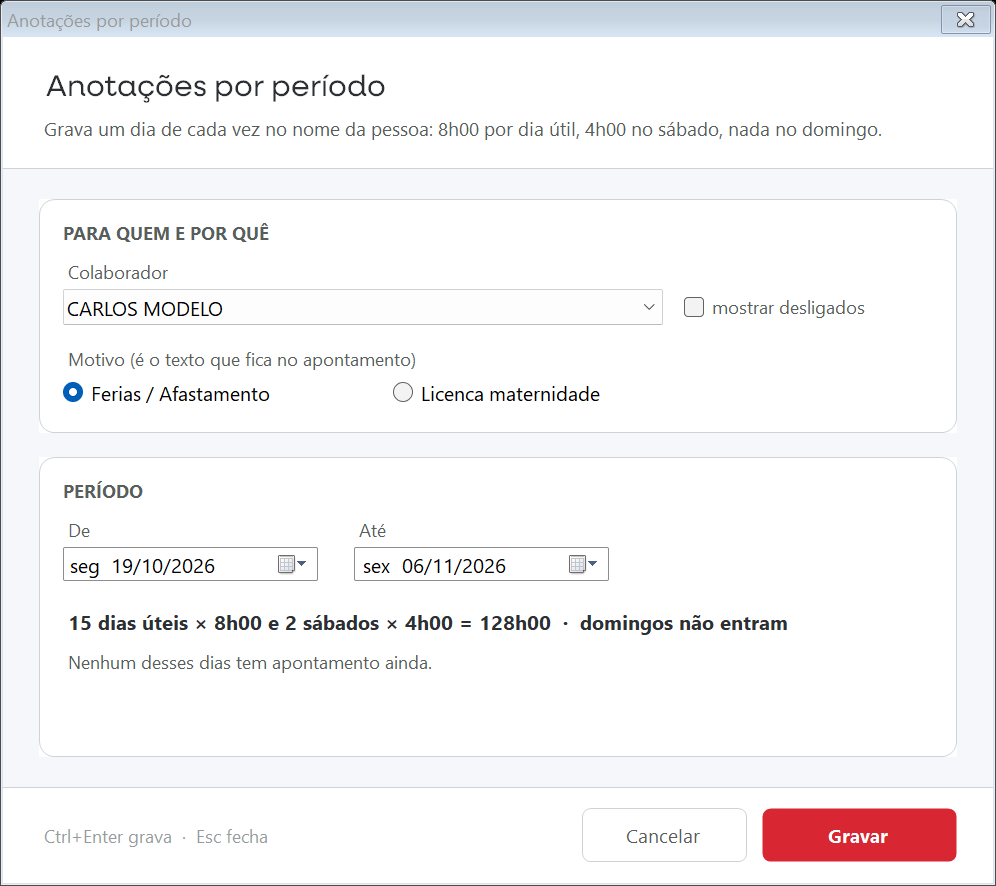
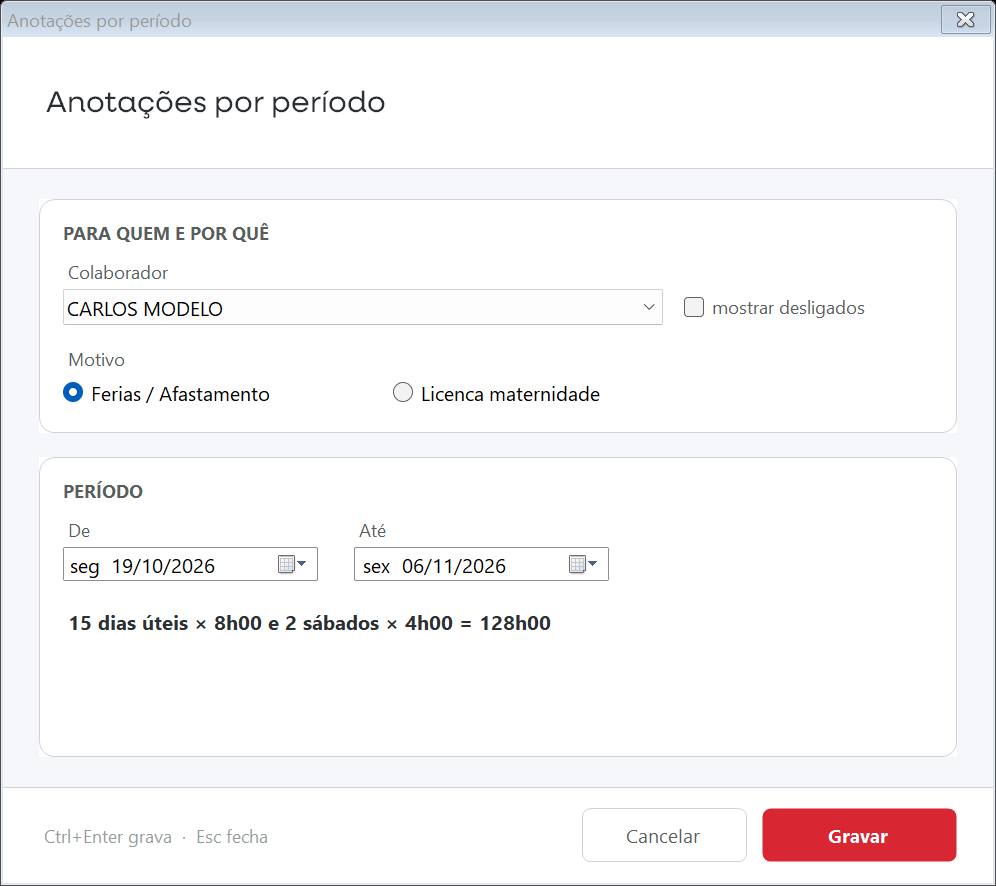
Menos texto na tela: retirados subtítulos e frases de ajuda de todas as telas
Cabeçalhos só com o título; sem "Digite parte do nome…", "Lista do Outros.txt…",
"Grava um dia de cada vez…", regras do banco de horas e das horas diretas/indiretas,
"clique no dia", "clique para ver o extrato", "domingos não entram" e os parênteses
das opções. O subtítulo do lançamento ficou só com os números. Capturas refeitas.

diff --git a/LEIA-ME.md b/LEIA-ME.md
@@ -16,7 +16,7 @@ Hoje o Time são duas janelas dos anos 2000: **Cadastro de Tempo** (`frmTimeDet`
 | **Cartões** | HOJE (horas de 8 h, com barra) · ESTE MÊS (apontadas de meta, faltam X, e o **gráfico dia a dia** da proposta da tela principal, com hoje em vermelho e a linha das 8 h) · MÊS ANTERIOR (apontadas de meta: "fechado" em verde ou "faltam X" em vermelho) · **DIAS COM MENOS DE 8 H** nos últimos 20 dias, um chip por dia; clicar no dia abre o lançamento já naquela data. |
 | **Novo apontamento** (`frmApontamentoDet`) | Cliente: **a lista filtra conforme você digita**, por qualquer trecho do nome ou pelo código (várias palavras valem: "aurora const"); ↓ ↑ escolhe, **Tab, Enter ou clique seleciona**; ao escolher aparece CNPJ e grupo. **Ou** atividade interna (Outros.txt). Data; tempo em **horas + minutos** com atalhos 15 min / 30 min / 1 h / 2 h / 4 h / 8 h; "Salvar" e "Salvar e novo" (Ctrl+Enter) para lançar o dia inteiro sem fechar a janela. |
 | **Várias empresas** | A caixa "Lançar para várias empresas" abre as duas listas (disponíveis › selecionadas, com localizar e marcar todas) e grava uma linha por empresa, como o "SELECIONAR VÁRIAS EMPRESAS" de hoje. Abaixo das listas, "Como gravar o tempo?" com duas opções: **Cada empresa fica com o tempo inteiro** (o comportamento do Time de hoje, que continua sendo o padrão) ou **Dividir o tempo entre as empresas**. Assim que a pessoa informa o tempo e as empresas, as duas frases passam a mostrar os números dela: "Cada empresa fica com 2h00 (4 empresas = 8h00 no total)" e "Dividir as 2h00 entre as 4 empresas (0h30 para cada uma)". O texto acima da lista da direita e a linha abaixo do tempo repetem o resultado, sem decimais. |
-| **Trava de 10 h por dia** | O que a pessoa já tem no dia mais o que vai gravar não pode passar de **10h00**. A tela avisa antes ("Hoje: você já tem 8h00 · com este lançamento fica 9h00, 1h00 vai para o banco de horas") e, se passar, não grava: "Você já tem 9h00 hoje. O limite é 10h00 por dia, então cabem mais 1h00." Vale também para alteração e para várias empresas (conta o total das linhas). |
+| **Trava de 10 h por dia** | O que a pessoa já tem no dia mais o que vai gravar não pode passar de **10h00**. A tela avisa antes ("Hoje: 8h00 · com este: 9h00 (1h00 no banco)") e, se passar, não grava: "Você já tem 9h00 hoje. O limite é 10h00 por dia, então cabem mais 1h00." Vale também para alteração e para várias empresas (conta o total das linhas). |
 | **Banco de horas** | Quinto cartão, **BANCO DE HORAS**: saldo do que passou de 8h00 por dia desde 01/10/2026 (sábado e domingo entram inteiros). Clicar abre o **extrato** (`frmBancoHoras`): saldo, um chip por mês, a lista dos dias (data, apontado, jornada, quanto foi para o banco) e Exportar CSV. Só leitura: a conta é refeita a partir da TbTime a cada abertura, então editar ou excluir um apontamento corrige o saldo sozinho. |
 | **Editar / excluir** | Duplo clique ou Enter abre o lançamento; Del ou o botão "Excluir" pede confirmação; botão direito tem também "Novo apontamento nesta data". |
 | **Exportar** | CSV da lista filtrada, com total, abrindo direto no Excel. |

diff --git a/CHANGELOG.md b/CHANGELOG.md
@@ -1,5 +1,11 @@
 # Histórico — Apontamentos de horas
 
+## 16/10/2026 (noite) — menos texto na tela
+
+- Retirados os textos explicativos de todas as telas: subtítulos dos cabeçalhos (Apontamentos, Anotações por período, Gerenciamento), frases de ajuda ("Digite parte do nome…", "Lista do Outros.txt…", "Grava um dia de cada vez…", regra do banco de horas, regra das horas diretas e indiretas, "clique no dia", "clique para ver o extrato", "domingos não entram") e os parênteses das opções ("com código de empresa", "grava uma linha por empresa", "gravado como 1,50 h").
+- O subtítulo do lançamento ficou só com os números: "Hoje: 7h00 · faltam 1h00 · com este: 9h00 (1h00 no banco)".
+- Capturas refeitas.
+
 ## 16/10/2026 (noite) — Gerenciamento do Time completo
 
 **Novo**

diff --git a/README.md b/README.md
@@ -33,7 +33,7 @@ Estado em 16/10/2026: pronta para **pré-produção** (banco `Grupo_Mecano_Teste
 2. Informe a **data** (nunca futura) e o **tempo** em horas e minutos, ou use um atalho (15 min, 30 min, 1 h, 2 h, 4 h, 8 h).
 3. **Salvar**, ou **Salvar e novo** (Ctrl+Enter) para lançar o dia inteiro sem fechar a janela.
 
-O subtítulo da janela acompanha o dia: *"Hoje: você já tem 7h00 · faltam 1h00 para 8h00 · com este lançamento fica 9h00, 1h00 vai para o banco de horas"*.
+O subtítulo da janela acompanha o dia, só com os números: *"Hoje: 7h00 · faltam 1h00 · com este: 9h00 (1h00 no banco)"*.
 
 ### Várias empresas de uma vez
 
